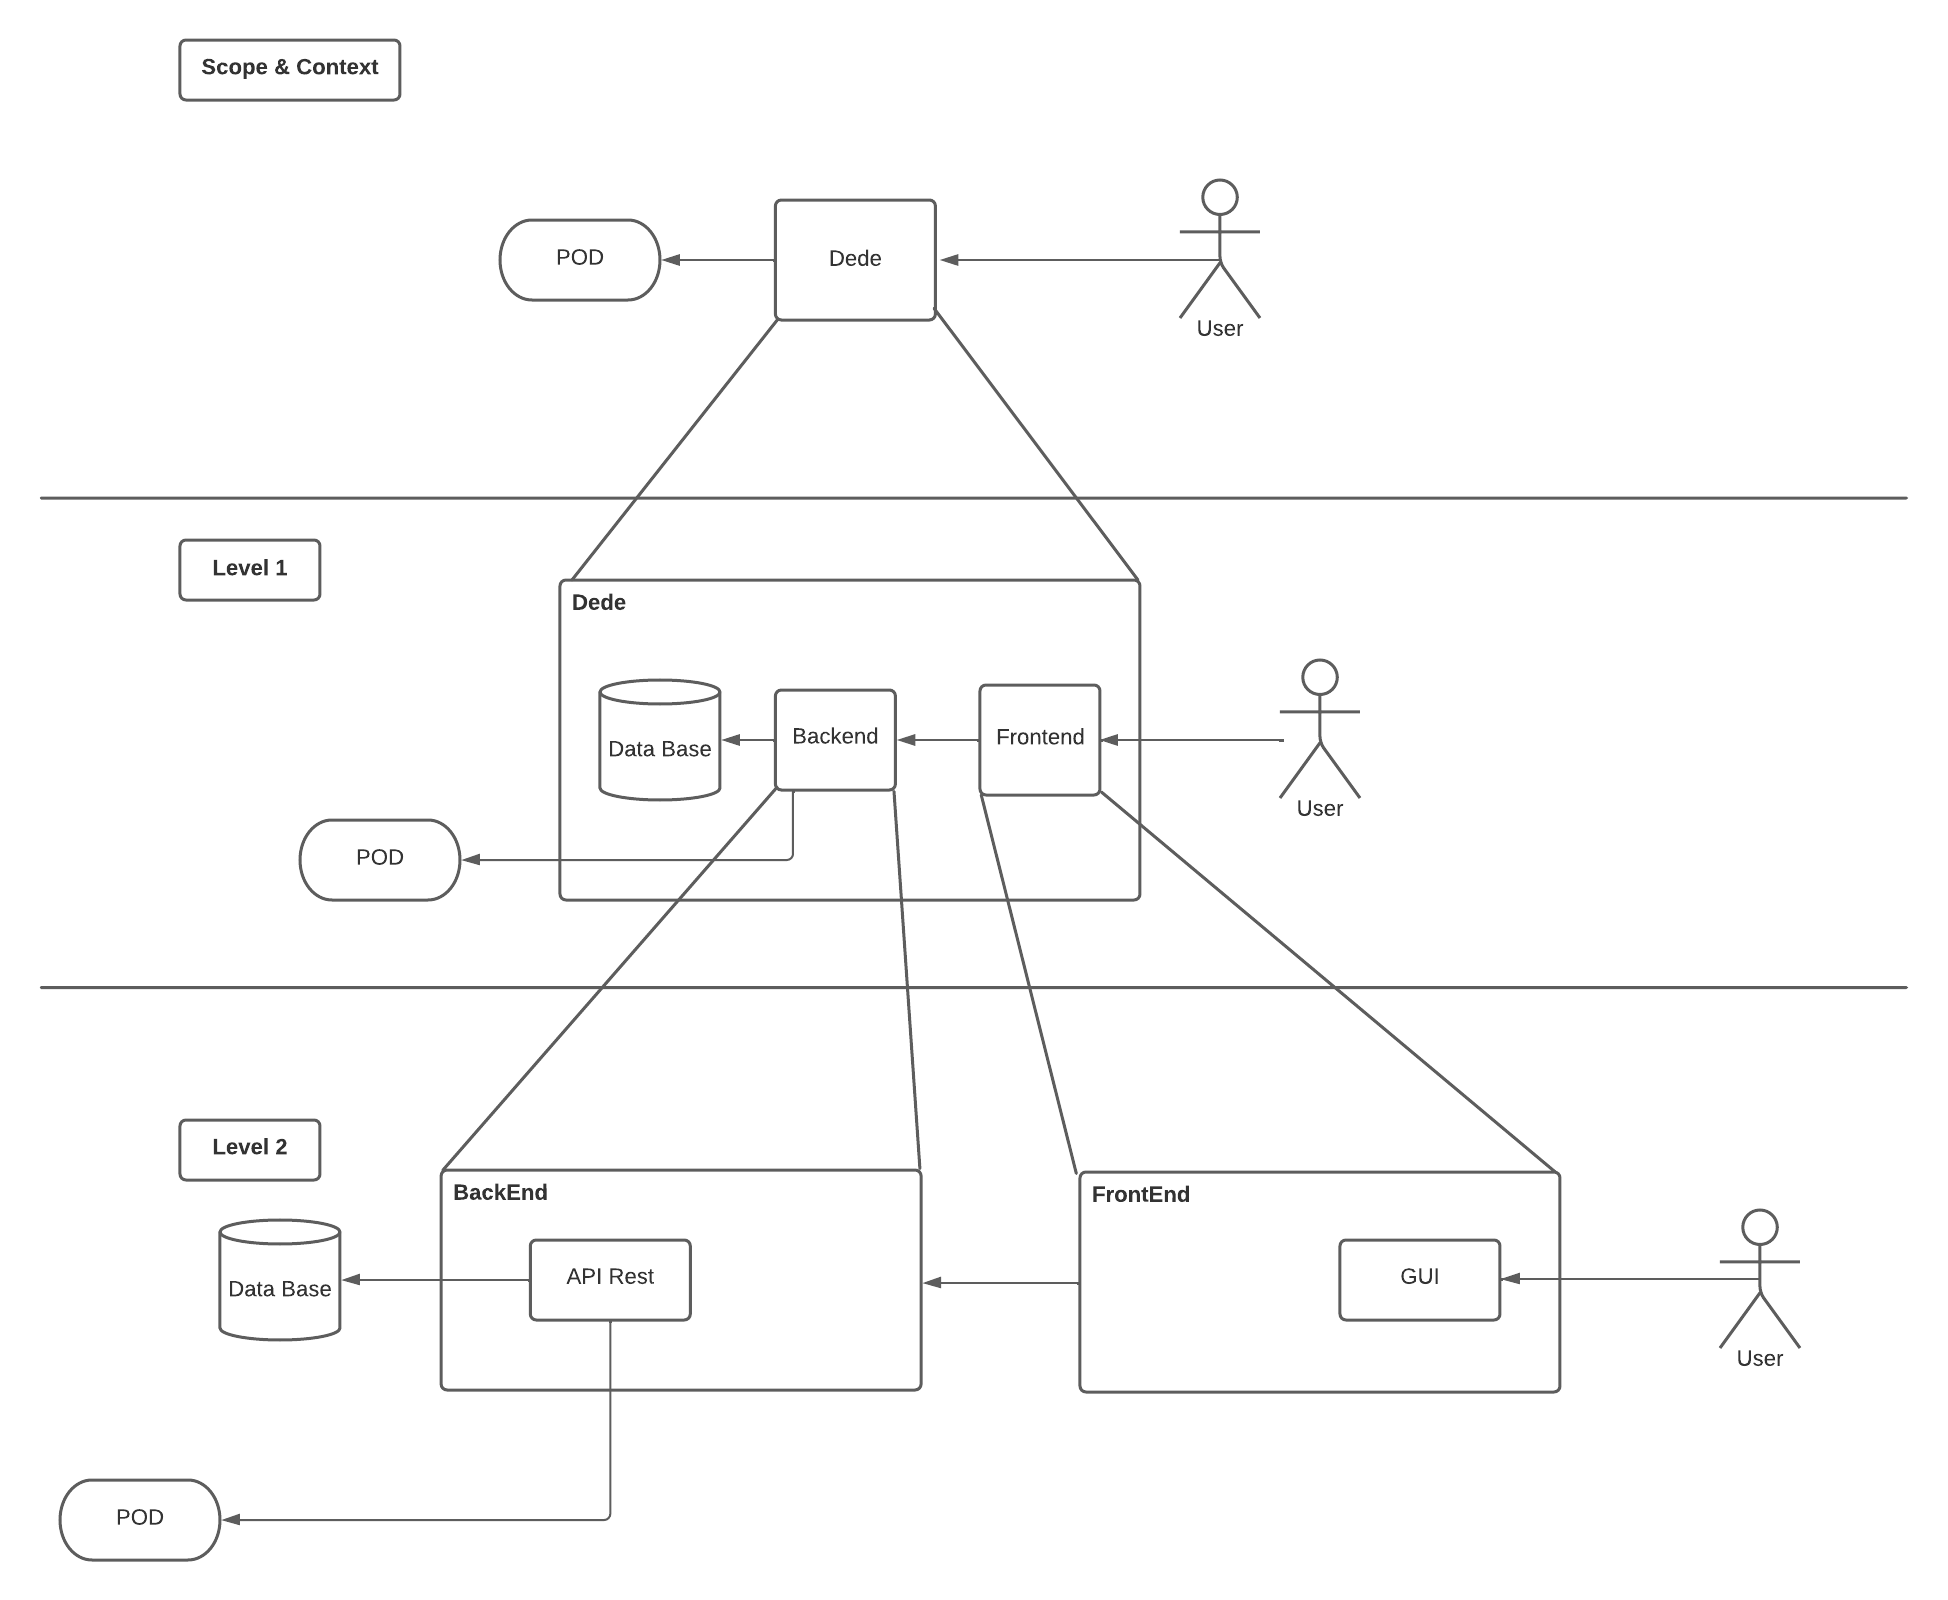
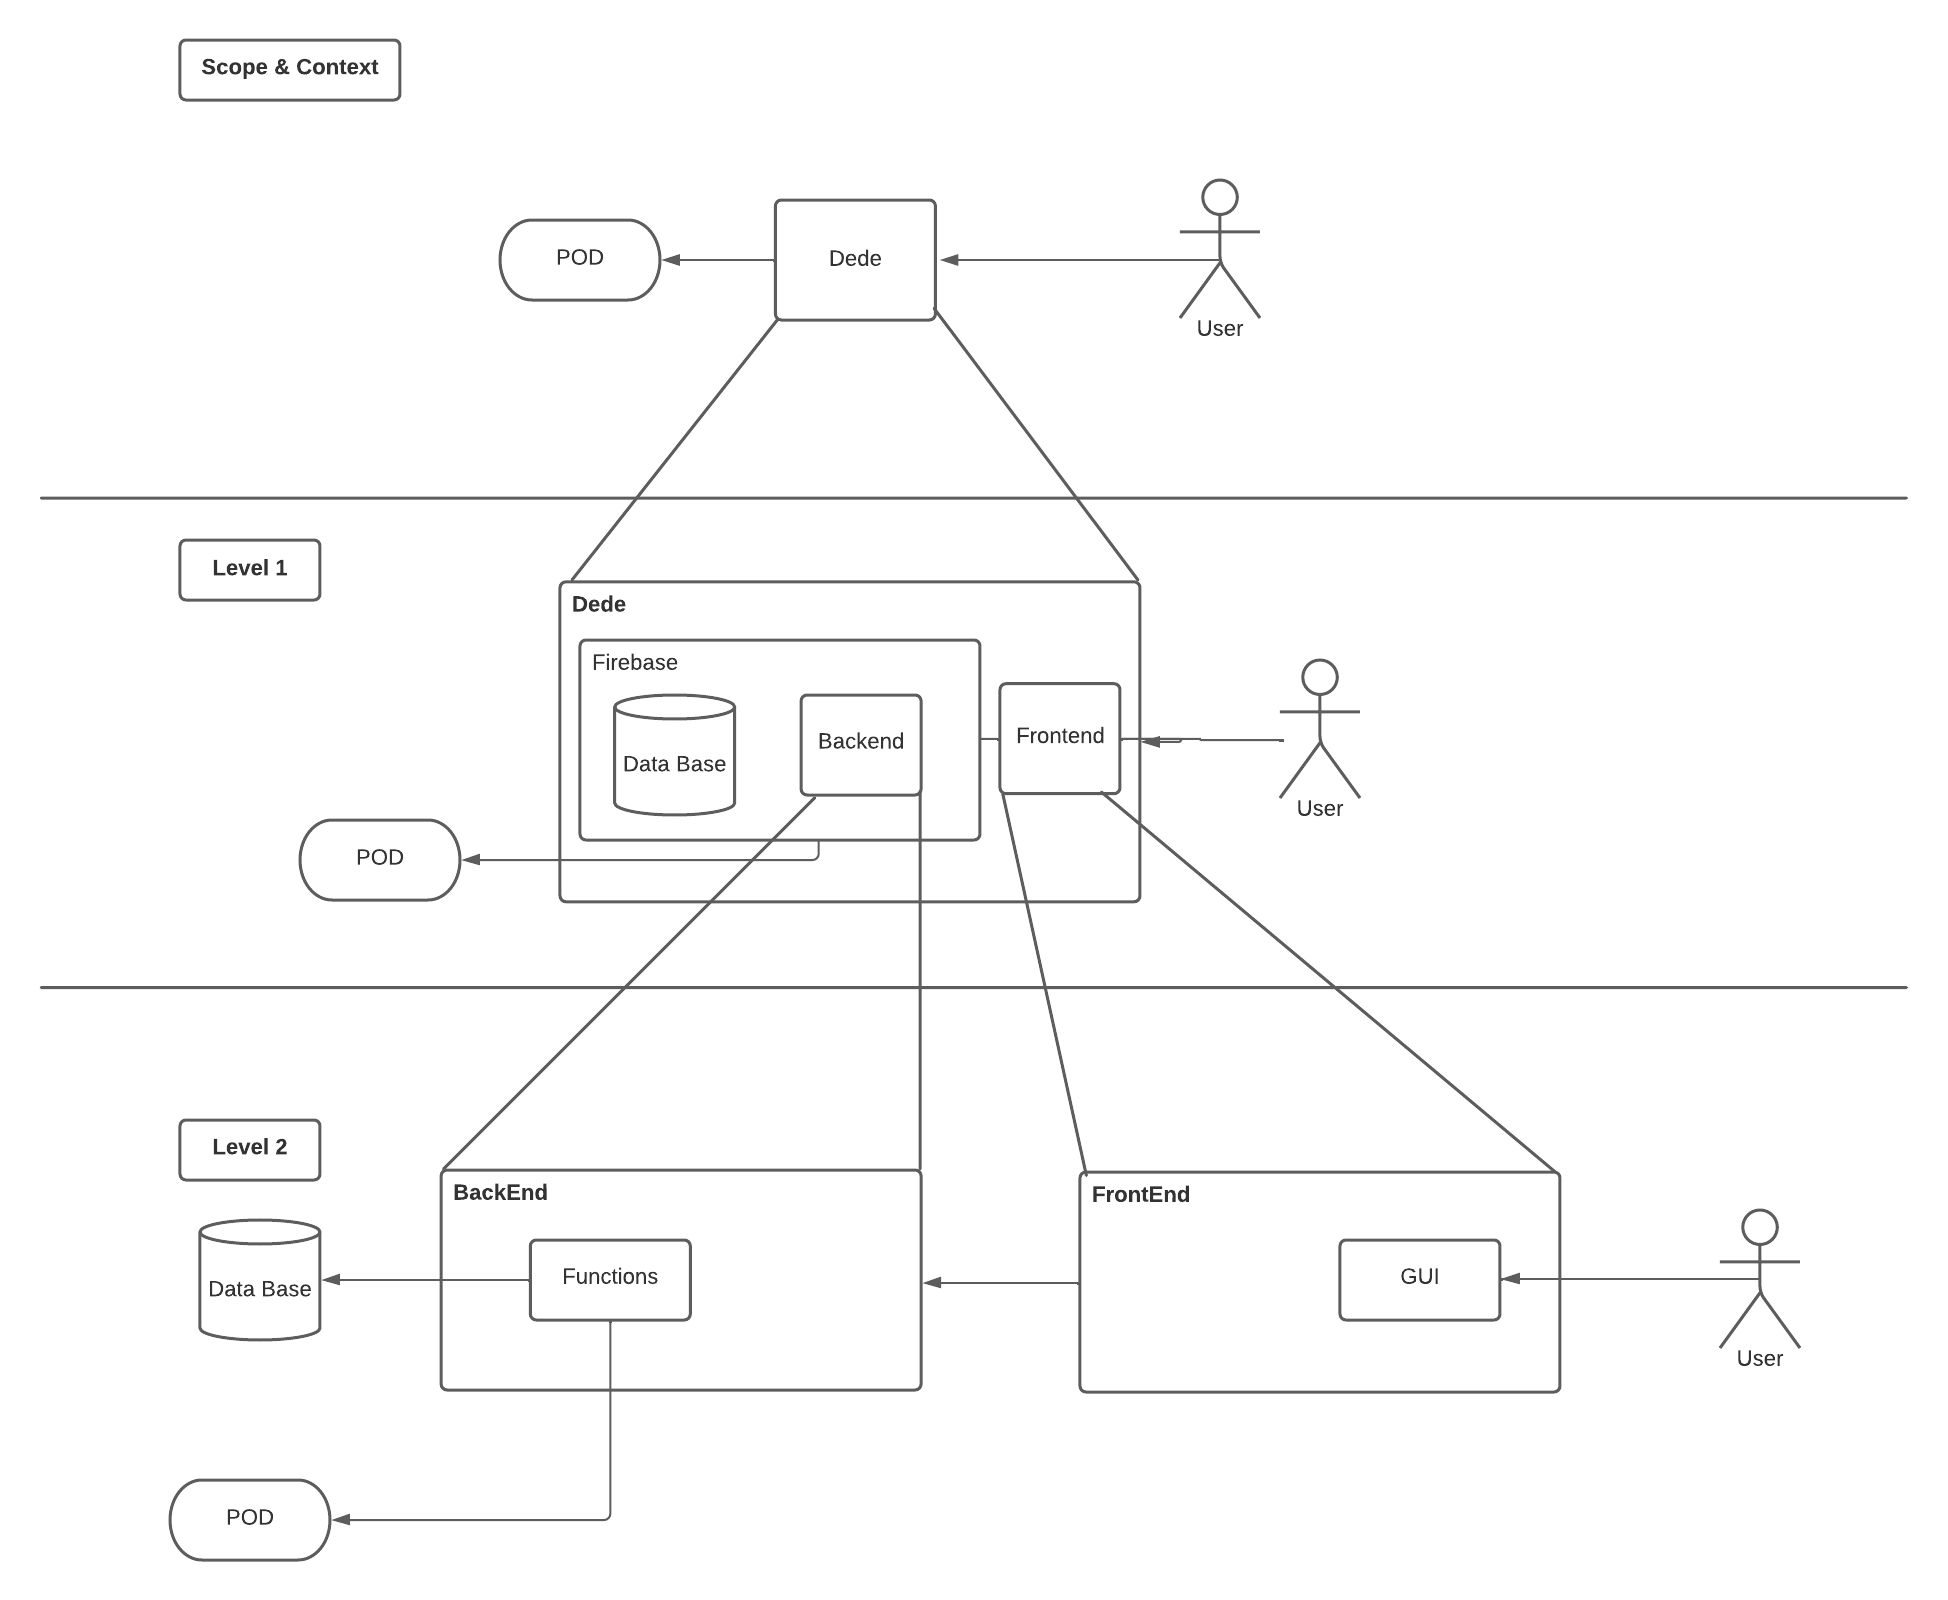
Updates

diff --git a/index.html b/index.html
@@ -1087,9 +1087,6 @@ abstraction.</p>
 (see figure below) and their descriptions.</p>
 </div>
 <div class="paragraph">
-<p><span class="image"><img src="./images/05_building_blocks-EN.png" alt="Hierarchy of building blocks"></span></p>
-</div>
-<div class="paragraph">
 <p><strong>Level 1</strong> is the white box description of the overall system together with black
 box descriptions of all contained building blocks.</p>
 </div>
@@ -1154,11 +1151,7 @@ Thus it contains the white box description of selected building blocks of level 
 </tr>
 <tr>
 <td class="tableblock halign-left valign-top"><p class="tableblock">Backend</p></td>
-<td class="tableblock halign-left valign-top"><p class="tableblock">Node.js project. It will contain the REST API as well as any server-side function the application may need.</p></td>
-</tr>
-<tr>
-<td class="tableblock halign-left valign-top"><p class="tableblock">Web Server</p></td>
-<td class="tableblock halign-left valign-top"><p class="tableblock">Instance of the  MySQL database.</p></td>
+<td class="tableblock halign-left valign-top"><p class="tableblock">The backend functionality will be provided by the firebase functions.</p></td>
 </tr>
 </tbody>
 </table>
@@ -1175,12 +1168,14 @@ Thus it contains the white box description of selected building blocks of level 
 </colgroup>
 <tbody>
 <tr>
-<td class="tableblock halign-left valign-top"><p class="tableblock">API Rest</p></td>
-<td class="tableblock halign-left valign-top"><p class="tableblock">Node.js REST Api. Will be in charge of data read, write and delete operations.</p></td>
-</tr>
-<tr>
 <td class="tableblock halign-left valign-top"><p class="tableblock">GUI</p></td>
 <td class="tableblock halign-left valign-top"><p class="tableblock">The interface system the user will interact with.</p></td>
+</tr>
+<tr>
+<td class="tableblock halign-left valign-top"><p class="tableblock">Functions</p></td>
+<td class="tableblock halign-left valign-top"><p class="tableblock">Provided by firebase. Serverless backend code that works via http requests.
+They allow JavaScript, TypeScript, Python and Go. They provide automatic vertical and horizontal escalation
+depending on the number of requests, ensuring availability and efficiency.</p></td>
 </tr>
 </tbody>
 </table>
@@ -1939,7 +1934,7 @@ Created by Dr. Peter Hruschka &amp; Dr. Gernot Starke.</p>
 </div>
 <div id="footer">
 <div id="footer-text">
-Last updated 2022-02-12 11:30:15 +0100
+Last updated 2022-02-10 13:20:13 +0100
 </div>
 </div>
 </body>
